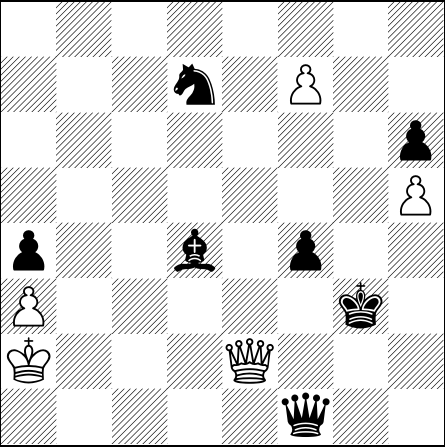
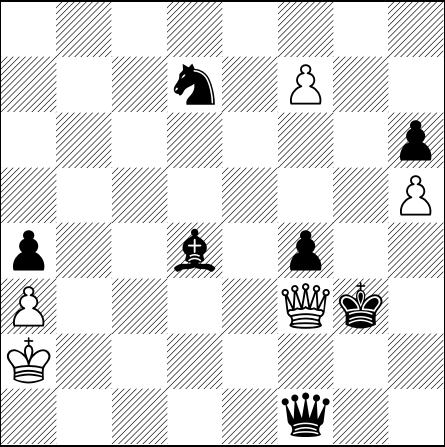
[automated] Regenerate text/pdf for chessboard

Changed region(s): [[0.6135, 0.6107, 0.7596, 0.7562], [0.4966, 0.7562, 0.6135, 0.8725]]

diff --git a/default_filepath.tex b/default_filepath.tex
@@ -13,6 +13,6 @@
 \normalsize%
 \setchessboard{showmover=false}%
 \newgame%
-\fenboard{8/3n1P2/7p/7P/p2b1p2/P5k1/K3Q3/5q2 w - - 29 112}%
+\fenboard{8/3n1P2/7p/7P/p2b1p2/P4Qk1/K7/5q2 b - - 30 112}%
 \chessboard%
 \end{document}
